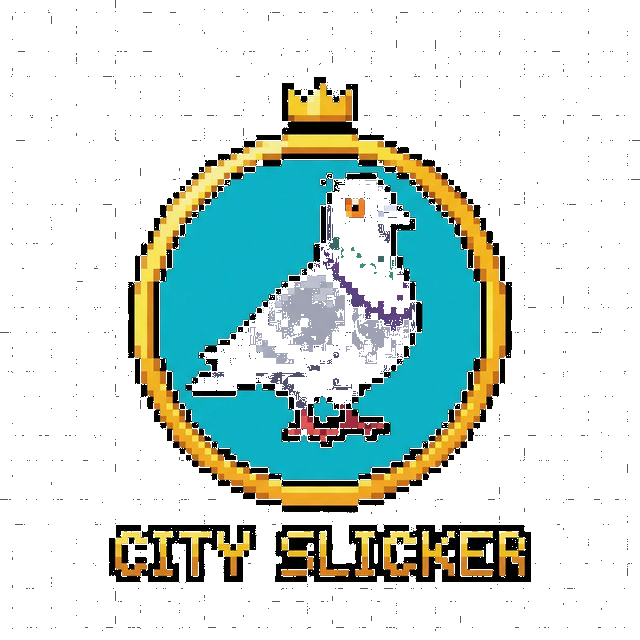
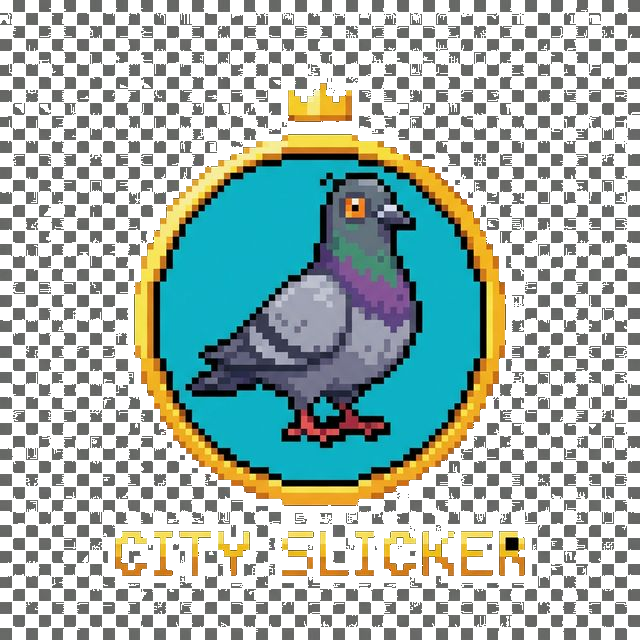
fix(assets): remove backgrounds using floodfill
- Use floodfill algorithm to remove non-uniform backgrounds from pixel art assets

- Fixes regression where global color replacement failed for some images

diff --git a/src/hooks/useAnnouncements.ts b/src/hooks/useAnnouncements.ts
@@ -1,4 +1,4 @@
-import { useCallback, useState } from 'react';
+import { useCallback, useRef, useState } from 'react';
 import { Announcement, getUnreadAnnouncements, markAnnouncementAsRead } from '../utils/social/news';
 
 interface UseAnnouncementsReturn {
@@ -14,6 +14,9 @@ interface UseAnnouncementsReturn {
  */
 export const useAnnouncements = (username: string): UseAnnouncementsReturn => {
   const [pendingAnnouncement, setPendingAnnouncement] = useState<Announcement | null>(null);
+  // Track dismissed IDs in this session so they never re-show even if the DB
+  // mark-as-read is slow or fails.
+  const dismissedIds = useRef<Set<string>>(new Set());
 
   /**
    * Check for and display unread announcements
@@ -26,8 +29,11 @@ export const useAnnouncements = (username: string): UseAnnouncementsReturn => {
     try {
       const unread = await getUnreadAnnouncements(username);
       if (unread && unread.length > 0) {
-        // Show the most recent unread announcement
-        setPendingAnnouncement(unread[0]!);
+        // Skip announcements already dismissed this session
+        const firstNew = unread.find(a => !dismissedIds.current.has(a.id));
+        if (firstNew) {
+          setPendingAnnouncement(firstNew);
+        }
       }
     } catch (err) {
       console.warn('Failed to fetch announcements:', err);
@@ -38,15 +44,23 @@ export const useAnnouncements = (username: string): UseAnnouncementsReturn => {
    * Dismiss and mark current announcement as read
    */
   const dismissAnnouncement = useCallback(async () => {
-    setPendingAnnouncement(prev => {
-      if (prev && username) {
-        markAnnouncementAsRead(username, prev.id).catch(err =>
-          console.warn('Failed to mark announcement read:', err)
-        );
-      }
-      return null;
-    });
-  }, [username]);
+    const current = pendingAnnouncement;
+    if (!current || !username) {
+      setPendingAnnouncement(null);
+      return;
+    }
+
+    // Mark locally dismissed immediately so it never re-shows this session
+    dismissedIds.current.add(current.id);
+    setPendingAnnouncement(null);
+
+    // Persist to DB in background
+    try {
+      await markAnnouncementAsRead(username, current.id);
+    } catch (err) {
+      console.warn('Failed to mark announcement read:', err);
+    }
+  }, [username, pendingAnnouncement]);
 
   return { pendingAnnouncement, dismissAnnouncement, checkAnnouncements };
 };

diff --git a/src/services/db/announcements.ts b/src/services/db/announcements.ts
@@ -5,6 +5,7 @@
  */
 
 import type { AnnouncementRow } from '../../types/supabase';
+import { normalizeUsername } from '../../utils/format';
 import { supabase } from '../supabase';
 
 export async function getActiveAnnouncements(): Promise<AnnouncementRow[]> {
@@ -80,10 +81,11 @@ export async function deleteAnnouncement(id: number): Promise<boolean> {
 }
 
 export async function getReadAnnouncementIds(username: string): Promise<number[]> {
+  const normalized = normalizeUsername(username);
   const { data, error } = await supabase
     .from('user_read_announcements')
     .select('announcement_id')
-    .eq('username', username.toLowerCase());
+    .eq('username', normalized);
 
   if (error) {
     console.error('[DB] getReadAnnouncementIds error:', error.message);
@@ -96,8 +98,9 @@ export async function markAnnouncementAsRead(
   username: string,
   announcementId: number
 ): Promise<boolean> {
+  const normalized = normalizeUsername(username);
   const { error } = await supabase.from('user_read_announcements').insert({
-    username: username.toLowerCase(),
+    username: normalized,
     announcement_id: announcementId,
   });
 
